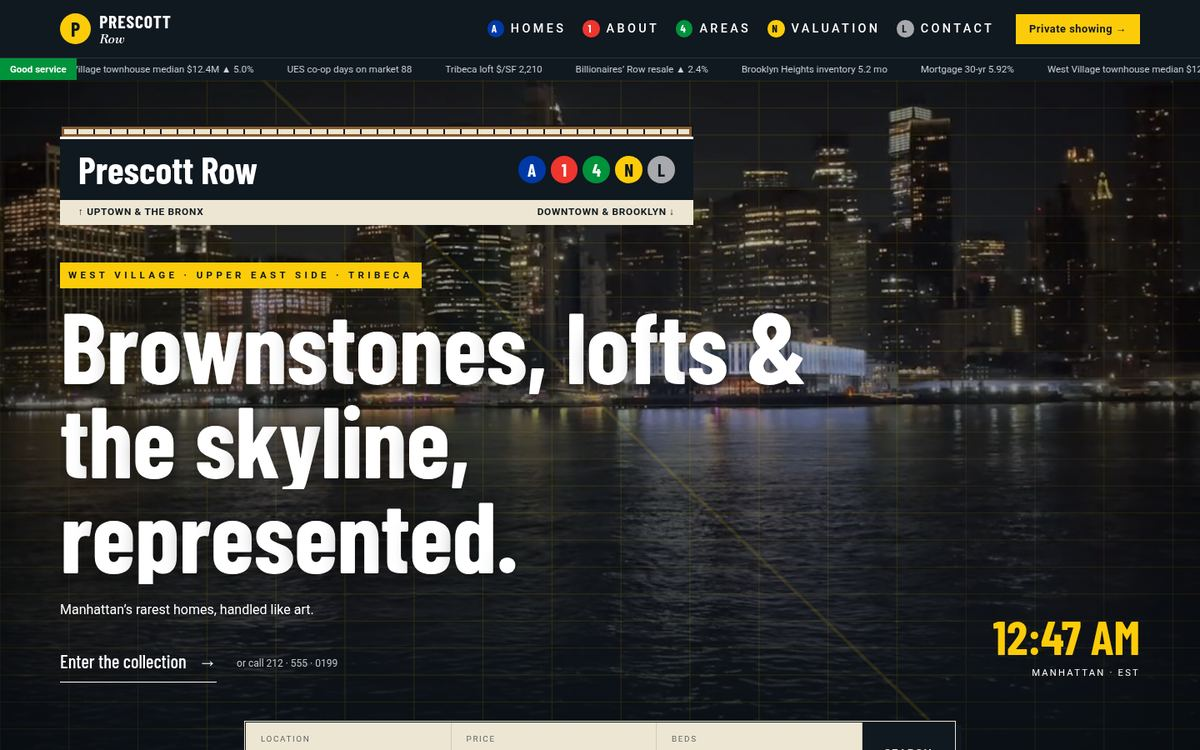
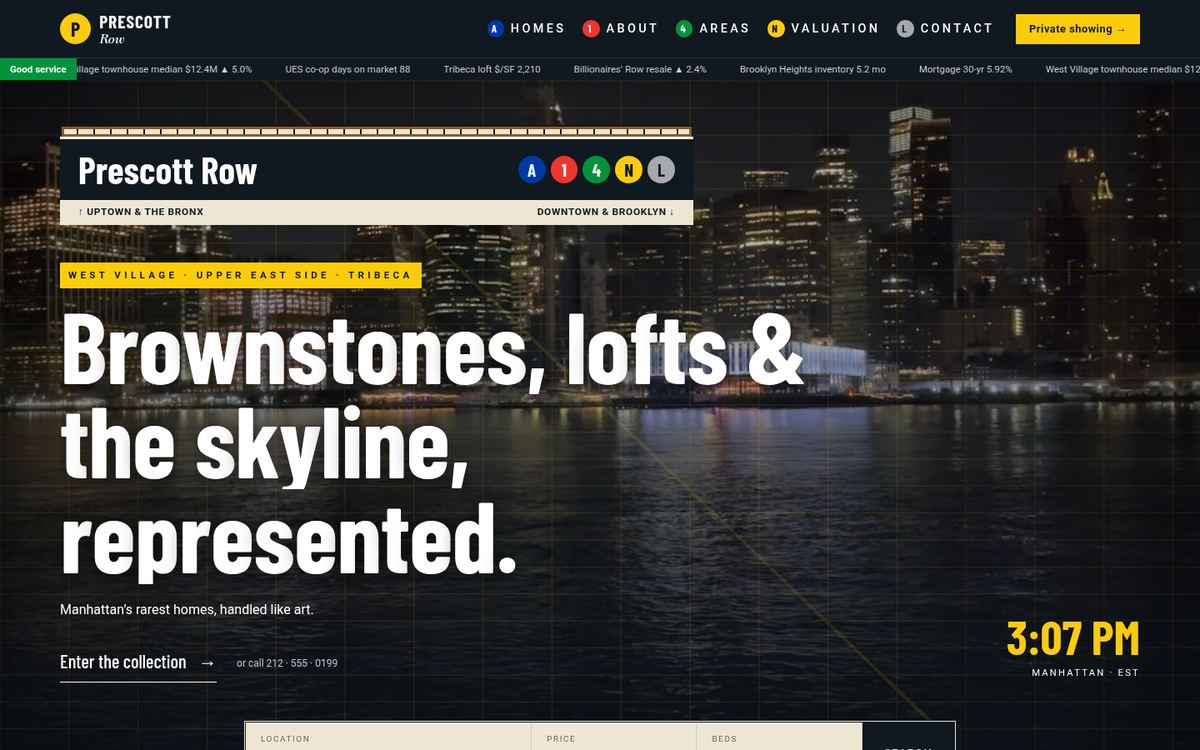
07 team: Daniel/Ana distinct headshots (fix srcset ordering bug)

diff --git a/site-07-prescott-row/index.html b/site-07-prescott-row/index.html
@@ -1261,7 +1261,7 @@ S.querySelectorAll('input[data-k]').forEach(i=>i.oninput=()=>{st[i.dataset.k]=+i
 <div class="lf-card"><div class="lf-prog" aria-hidden="true"><div class="lf-bar"><i></i></div><div class="lf-dots"></div><div class="lf-frac"><b>01</b><span>/ 05</span></div><svg class="lf-ring" viewBox="0 0 44 44"><circle cx="22" cy="22" r="19"/><circle class="v" cx="22" cy="22" r="19"/></svg><div class="lf-stepname"></div></div>
 <form class="lf-form" novalidate><div class="lf-steps"></div><div class="lf-nav"><button type="button" class="lf-back">Back</button><button type="submit" class="lf-next">Continue</button></div></form>
 <p class="lf-note">Demo only. Nothing is submitted or stored.</p></div>
-</div></section><section class="press-strip" aria-label="As featured in"><small>As featured in</small><span>The New York Times</span><span>The Real Deal</span><span>Curbed</span><span>WSJ Mansion</span></section><section class="sec ts-num"><div class="wrap"><div class="head rv"><div><div class="idx"><b>08</b>Client Notes</div><h2 class="h">Clients, in their words.</h2></div></div><figure class="tcard rv"><b>01</b><p>He knew the 1847 builder of our townhouse by name. The buyers fell for the story first.</p><span>Seller · Bank Street</span></figure><figure class="tcard rv"><b>02</b><p>Discreet, fast and devastatingly well-informed.</p><span>Family office · Lenox Hill</span></figure><figure class="tcard rv"><b>03</b><p>Our loft never went public. Three private showings, one record.</p><span>Seller · Franklin Street</span></figure></div></section><section class="sec team"><div class="wrap"><div class="head rv"><div><div class="idx"><b>09</b>The Team</div><h2 class="h">Seven people. <em>Ten thousand</em> stoops walked.</h2></div></div><div class="g"><div class="m rv d0"><img src="media/agent.jpg" srcset="media/agent-720.jpg 1x, media/agent.jpg 2x" alt="Julian Prescott" loading="lazy"><h3>Julian Prescott</h3><span>Founding Broker</span></div><div class="m rv d1"><img src="https://images.pexels.com/photos/15583832/pexels-photo-15583832.jpeg?auto=compress&cs=tinysrgb&w=700" srcset="https://images.pexels.com/photos/15583832/pexels-photo-15583832.jpeg?auto=compress&cs=tinysrgb&w=700 1x, https://images.pexels.com/photos/15583832/pexels-photo-15583832.jpeg?auto=compress&cs=tinysrgb&w=2100 2x" alt="Ana Okafor" loading="lazy"><h3>Ana Okafor</h3><span>Townhouse Specialist</span></div><div class="m rv d2"><img src="media/agent.jpg" srcset="media/agent-720.jpg 1x, media/agent.jpg 2x" alt="Daniel Reyes" loading="lazy"><h3>Daniel Reyes</h3><span>New Development</span></div></div></div></section>
+</div></section><section class="press-strip" aria-label="As featured in"><small>As featured in</small><span>The New York Times</span><span>The Real Deal</span><span>Curbed</span><span>WSJ Mansion</span></section><section class="sec ts-num"><div class="wrap"><div class="head rv"><div><div class="idx"><b>08</b>Client Notes</div><h2 class="h">Clients, in their words.</h2></div></div><figure class="tcard rv"><b>01</b><p>He knew the 1847 builder of our townhouse by name. The buyers fell for the story first.</p><span>Seller · Bank Street</span></figure><figure class="tcard rv"><b>02</b><p>Discreet, fast and devastatingly well-informed.</p><span>Family office · Lenox Hill</span></figure><figure class="tcard rv"><b>03</b><p>Our loft never went public. Three private showings, one record.</p><span>Seller · Franklin Street</span></figure></div></section><section class="sec team"><div class="wrap"><div class="head rv"><div><div class="idx"><b>09</b>The Team</div><h2 class="h">Seven people. <em>Ten thousand</em> stoops walked.</h2></div></div><div class="g"><div class="m rv d0"><img src="media/agent.jpg" srcset="media/agent-720.jpg 1x, media/agent.jpg 2x" alt="Julian Prescott" loading="lazy"><h3>Julian Prescott</h3><span>Founding Broker</span></div><div class="m rv d1"><img src="media/team-ana.jpg" alt="Ana Okafor" loading="lazy"><h3>Ana Okafor</h3><span>Townhouse Specialist</span></div><div class="m rv d2"><img src="media/team-daniel.jpg" alt="Daniel Reyes" loading="lazy"><h3>Daniel Reyes</h3><span>New Development</span></div></div></div></section>
 <section class="ct-giant" id="contact"><div class="eyebrow rv">Private Consultation</div><a class="big rv" href="#contact">Let’s <em>talk</em> →</a><p class="lede rv" style="margin:26px auto 0">Selling or buying a significant Manhattan home? Let’s talk privately.</p></section>
 </main>
 <footer class="ft6"><svg class="sky6" viewBox="0 0 1440 160" preserveAspectRatio="none" aria-hidden="true"><path d="M0 160V120h40V90h30v30h20V70h26v50h30V100h22V40h8V20h6v20h8v80h24V86h40v34h18V60h30v60h26V96h20V50l14-20 14 20v70h30V80h36v40h20V100h30V64h22v56h40V30h10V6h4v24h10v90h26V90h34v30h18V74h28v46h40V96h24V56h30v64h22V84h36v36h30V100h20V44h12V24l6-10 6 10v20h12v76h24V88h32v32h28V70h30v50h40V92h26v28h36V60h24v60h30V100h40v20h30v40z"/></svg><div class="wrap g"><div class="a"><a class="logo lg-bullet lg-foot" href="#top" aria-label="Prescott Row home"><span class="lg6"><i class="bb" style="background:#FCCC0A;color:#101820">P</i><span><b>Prescott</b><em>Row</em></span></span></a><p>Townhouses, lofts and penthouses across Manhattan and brownstone Brooklyn.</p></div><div><h4>Cross streets</h4><div class="sts"><a href="#neighborhoods" class="ss">West Village</a><a href="#neighborhoods" class="ss">Upper East Side</a><a href="#neighborhoods" class="ss">Tribeca</a><a href="#neighborhoods" class="ss">Brooklyn Heights</a></div></div><div><h4>Stops on this line</h4><div class="stops"><a href="#listings"><i></i>Homes</a><a href="#about"><i></i>About</a><a href="#neighborhoods"><i></i>Areas</a><a href="#valuation"><i></i>Valuation</a><a href="#contact"><i></i>Contact</a></div></div><div><h4>Gansevoort office</h4><p>14 Gansevoort Street, New York, NY 10014</p><p>212 · 555 · 0199</p><p class="tr"><i class="bl" style="background:#0039A6;color:#fff">A</i><i class="bl" style="background:#A7A9AC;color:#101820">L</i> to 14 St · 8 Av</p></div></div><div class="wrap"><div class="legal"><span>© 2026 Prescott Row. Demo site. Equal Housing Opportunity.</span><a href="https://studio.vshmedia.com" target="_blank" rel="noopener" class="vsh">Website by VSH Media</a></div></div></footer>
